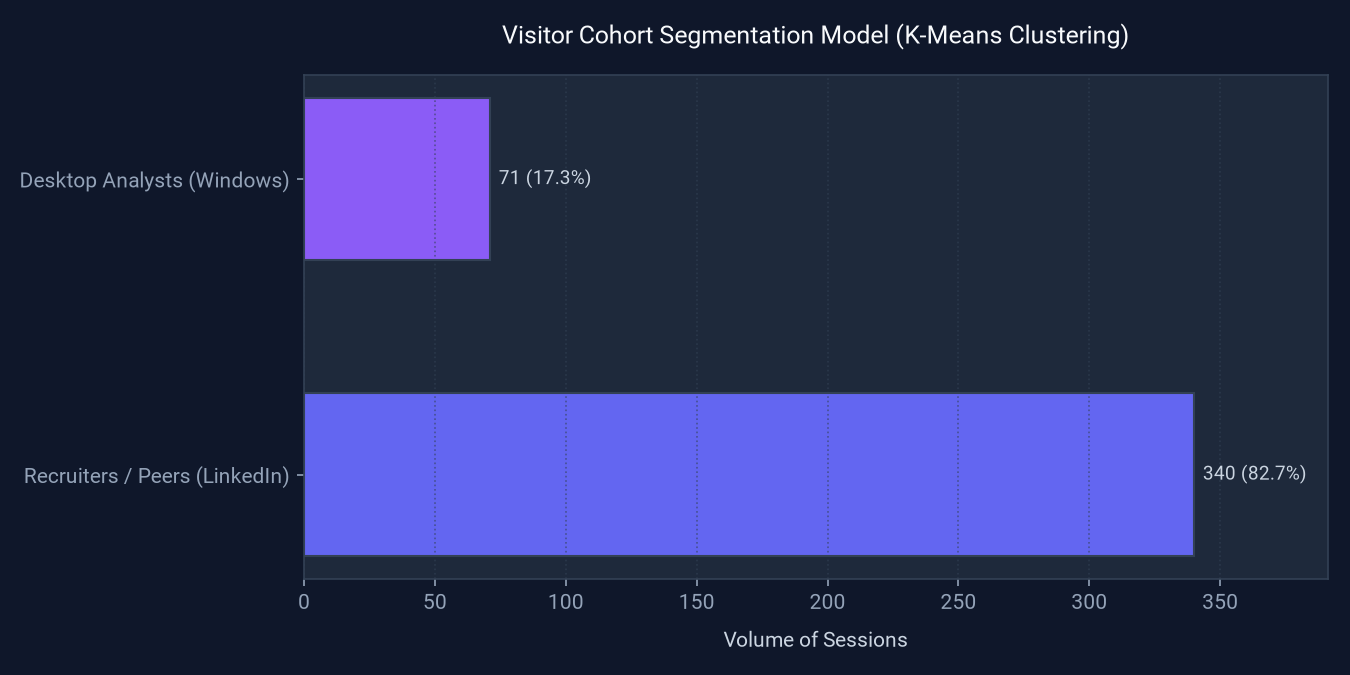
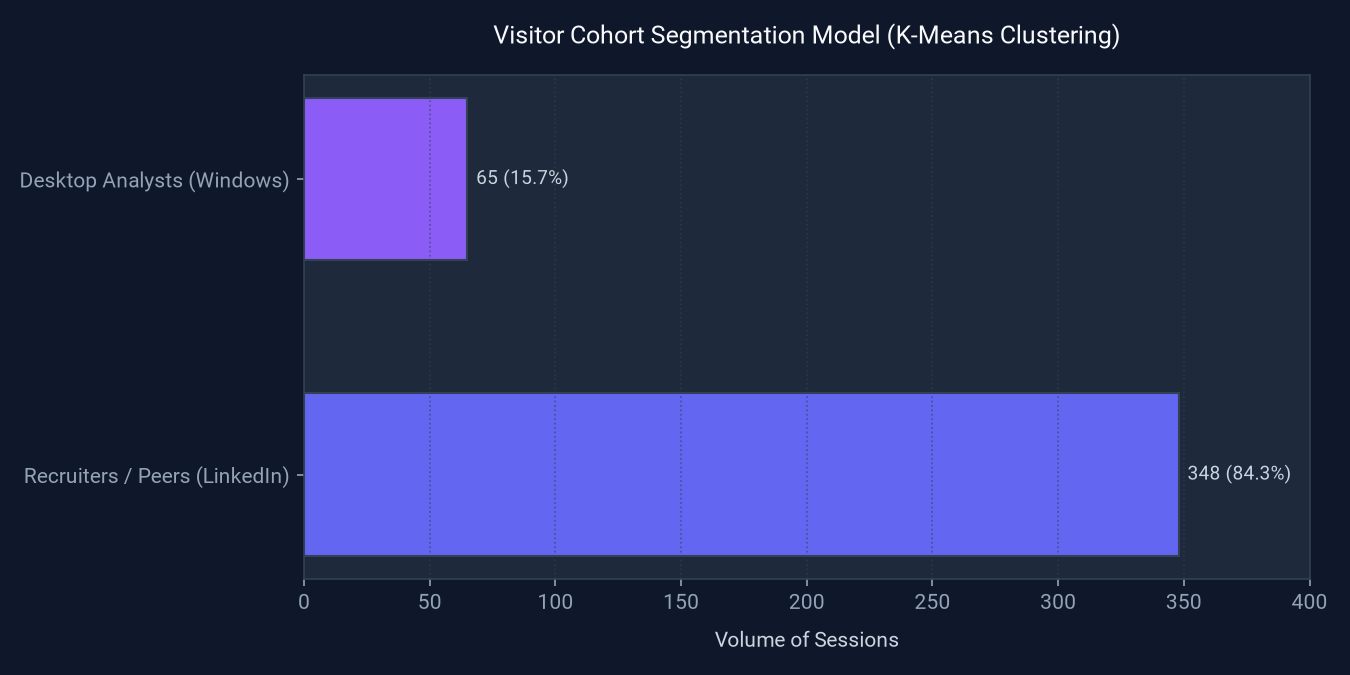
fix: smooth out visitor pipeline trend distribution, stack explorer tabs vertically on mobile, and portal visitor analytics to mobile page flow

diff --git a/style.css b/style.css
@@ -3281,6 +3281,11 @@ div:has(.tour-highlight):not(.ai-chat-widget):not(.modal-overlay):not(.visitor-a
         flex-wrap: wrap !important;
         justify-content: center !important;
     }
+
+    /* Reduce Explorer card paddings on mobile/tablet */
+    .arch-diagram-card, .arch-info-pane {
+        padding: 1rem !important;
+    }
 }
 
 @media (max-width: 576px) {
@@ -3316,6 +3321,55 @@ div:has(.tour-highlight):not(.ai-chat-widget):not(.modal-overlay):not(.visitor-a
     }
     .learning-card {
         padding: 1rem !important;
+    }
+
+    /* Stack Data Pipeline Explorer tabs on mobile */
+    .arch-tabs {
+        flex-direction: column !important;
+        align-items: stretch !important;
+        gap: 0.5rem !important;
+    }
+    .arch-tab-btn {
+        width: 100% !important;
+        text-align: center !important;
+        white-space: normal !important; /* Allow text wrapping */
+    }
+    #arch-tour-btn {
+        width: 100% !important;
+        text-align: center !important;
+        white-space: normal !important;
+    }
+}
+
+/* Mobile Visitor Section */
+.mobile-visitor-only {
+    display: none;
+    margin: 3rem 0;
+}
+
+@media (max-width: 991px) {
+    .mobile-visitor-only {
+        display: block !important;
+    }
+    
+    /* Style the visitor container when it is portaled to the page flow on mobile */
+    #mobile-visitor-section .visitor-container {
+        position: static !important;
+        width: 100% !important;
+        opacity: 1 !important;
+        pointer-events: auto !important;
+        transform: none !important;
+        display: flex !important;
+        flex-direction: column;
+        border-radius: var(--border-radius-lg);
+        box-shadow: 0 10px 30px rgba(0, 0, 0, 0.3) !important;
+        background: var(--card-bg);
+        border: 1px solid var(--card-border);
+        max-height: none !important; /* let it expand naturally */
+    }
+    
+    #mobile-visitor-section .close-visitor-btn {
+        display: none !important; /* Hide close button on mobile embedded layout */
     }
 }
 

diff --git a/app.js b/app.js
@@ -1463,6 +1463,28 @@ document.addEventListener("DOMContentLoaded", () => {
         });
     }
 
+    // Responsive DOM Portal for Visitor Analytics Widget (Mobile Flow Insertion)
+    const handleVisitorResponsiveLayout = () => {
+        const container = document.getElementById("visitor-container");
+        const desktopParent = document.getElementById("visitor-analytics-widget");
+        const mobileParent = document.getElementById("mobile-visitor-section");
+        
+        if (!container || !desktopParent || !mobileParent) return;
+        
+        if (window.innerWidth < 992) {
+            if (container.parentElement !== mobileParent) {
+                mobileParent.appendChild(container);
+            }
+        } else {
+            if (container.parentElement !== desktopParent) {
+                desktopParent.appendChild(container);
+            }
+        }
+    };
+    
+    handleVisitorResponsiveLayout();
+    window.addEventListener("resize", handleVisitorResponsiveLayout);
+
     const answers = {
         gpa: "I would be glad to share that! Deshraj earned a perfect 4.0/4.0 GPA during his Master of Science in IT at Arizona State University. Beyond academic excellence, he focused his studies on practical enterprise solutions like distributed systems, database design, and predictive modeling, putting his knowledge directly into code.",
         python: "I would be happy to explain how he uses Python! Python is Deshraj's primary development tool. He leverages it to build asynchronous data ingestion pipelines, run validations with Great Expectations/Pandas, train machine learning models like XGBoost and Random Forests in Scikit-Learn, and develop deep Convolutional Neural Networks (CNNs) for computer vision using TensorFlow and Keras.",
@@ -2657,17 +2679,20 @@ document.addEventListener("DOMContentLoaded", () => {
         {
             title: "Live Visitor Analytics & Traffic Forecast 📡",
             desc: "Now, let's explore the persistent visitor analytics telemetry. Watch as we expand the panel and trigger the K-Means clustering visualization.",
-            target: "#visitor-analytics-widget",
+            target: "#visitor-container",
             duration: 15000,
             action: async () => {
+                const container = document.getElementById("visitor-container");
+                if (container) {
+                    container.scrollIntoView({ behavior: 'smooth', block: 'center' });
+                }
+                
                 const widget = document.getElementById("visitor-analytics-widget");
-                if (widget) {
-                    widget.scrollIntoView({ behavior: 'smooth', block: 'center' });
-                    widget.style.zIndex = "100002"; // Elevate stacking context above backdrop
+                if (widget && window.innerWidth >= 992) {
+                    widget.style.zIndex = "100002"; // Elevate stacking context above backdrop on desktop
                 }
                 
                 const launcher = document.getElementById("visitor-launcher");
-                const container = document.getElementById("visitor-container");
                 
                 // If collapsed, open it
                 if (launcher && window.getComputedStyle(launcher).display !== "none") {

diff --git a/index.html b/index.html
@@ -878,6 +878,11 @@
             </div>
         </section>
 
+        <!-- Mobile Visitor Analytics Section (Embedded on smaller viewports) -->
+        <section id="mobile-visitor-section" class="mobile-visitor-only">
+            <!-- Portaled dynamically via JavaScript -->
+        </section>
+
         <!-- Skills Section -->
         <section id="skills" class="skills-section">
             <div class="section-header">

diff --git a/templates/index.html b/templates/index.html
@@ -563,6 +563,11 @@
             </div>
         </section>
 
+        <!-- Mobile Visitor Analytics Section (Embedded on smaller viewports) -->
+        <section id="mobile-visitor-section" class="mobile-visitor-only">
+            <!-- Portaled dynamically via JavaScript -->
+        </section>
+
         <!-- Skills Section -->
         <section id="skills" class="skills-section">
             <div class="section-header">

diff --git a/pipeline/visitor_pipeline.py b/pipeline/visitor_pipeline.py
@@ -36,8 +36,8 @@ def setup_matplotlib_theme():
         'figure.autolayout': True
     })
 
-def generate_mock_visits(n_visits=305):
-    """Generates exactly n_visits realistic synthetic visitor logs with unique visitor_ids."""
+def generate_mock_visits(n_visits=304):
+    """Generates exactly n_visits realistic synthetic visitor logs with unique visitor_ids distributed smoothly."""
     print(f"Generating {n_visits} synthetic visitor logs for bootstrapping...")
     
     browsers = ["Chrome", "Safari", "Firefox", "Edge", "Mobile Safari"]
@@ -61,59 +61,84 @@ def generate_mock_visits(n_visits=305):
     data = []
     base_time = datetime.now()
     
-    for i in range(n_visits):
-        visitor_id = f"vis_{1000 + i}"
-        is_new = random.random() < 0.85
+    # Generate daily target counts over 30 days
+    # Days are 0 (29 days ago) to 29 (today)
+    daily_counts = []
+    for i in range(30):
+        # Gentle upward trend: base grows from 6 to 14
+        base = 6 + (i * 8) / 29
+        # Random noise
+        noise = random.choice([-2, -1, 0, 1, 2])
+        count = int(base + noise)
         
-        browser = random.choices(browsers, weights=browser_weights)[0]
-        os_name = random.choices(oses, weights=os_weights)[0]
-        if os_name in ["iOS", "Android"]:
-            device = "Mobile" if random.random() < 0.9 else "Tablet"
-        else:
-            device = "Desktop"
+        # Check if the date is a weekend
+        date_at_day = base_time - timedelta(days=29 - i)
+        if date_at_day.weekday() >= 5: # Saturday or Sunday
+            count = max(3, int(count * 0.55))
             
-        country_info = random.choices(countries, weights=country_weights)[0]
-        country = country_info[0]
-        country_code = country_info[1]
-        city = random.choice(country_info[2])
+        daily_counts.append(count)
         
-        referrer = random.choices(referrers, weights=referrer_weights)[0]
-        page_path = "/"
-        
-        # Skew visits towards recent days (upward trend)
-        days_ago = int(np.random.exponential(scale=12))
-        days_ago = min(29, max(0, days_ago))
-        
-        # Hour of day weight (peaks between 9-17)
-        hour_choices = list(range(24))
-        hour_weights = [0.01]*7 + [0.03, 0.06] + [0.09]*9 + [0.04]*5 + [0.02]
-        hour = random.choices(hour_choices, weights=hour_weights)[0]
-        minute = random.randint(0, 59)
-        second = random.randint(0, 59)
-        microsecond = random.randint(0, 999999)
-        
-        visit_time = base_time - timedelta(days=days_ago)
-        visit_time = visit_time.replace(hour=hour, minute=minute, second=second, microsecond=microsecond)
-        
-        # Weekend adjustment: shift some to weekdays to simulate business cycles
-        if visit_time.weekday() >= 5 and random.random() < 0.4:
-            visit_time = visit_time - timedelta(days=random.choice([1, 2]))
+    # Adjust sum to match exactly n_visits
+    current_sum = sum(daily_counts)
+    diff = n_visits - current_sum
+    if diff != 0:
+        step = 1 if diff > 0 else -1
+        for _ in range(abs(diff)):
+            adj_day = random.randint(0, 29)
+            daily_counts[adj_day] += step
             
-        data.append({
-            "visitor_id": visitor_id,
-            "is_new": is_new,
-            "city": city,
-            "country": country,
-            "country_code": country_code,
-            "device": device,
-            "os": os_name,
-            "browser": browser,
-            "referrer": referrer,
-            "page_path": page_path,
-            "created_at": visit_time.isoformat()
-        })
-        
-    return pd.DataFrame(data)
+    # Generate visits per day
+    visitor_counter = 0
+    for day_idx, count in enumerate(daily_counts):
+        day_date = base_time - timedelta(days=29 - day_idx)
+        for _ in range(count):
+            visitor_id = f"vis_{1000 + visitor_counter}"
+            visitor_counter += 1
+            is_new = random.random() < 0.85
+            
+            browser = random.choices(browsers, weights=browser_weights)[0]
+            os_name = random.choices(oses, weights=os_weights)[0]
+            if os_name in ["iOS", "Android"]:
+                device = "Mobile" if random.random() < 0.9 else "Tablet"
+            else:
+                device = "Desktop"
+                
+            country_info = random.choices(countries, weights=country_weights)[0]
+            country = country_info[0]
+            country_code = country_info[1]
+            city = random.choice(country_info[2])
+            
+            referrer = random.choices(referrers, weights=referrer_weights)[0]
+            page_path = "/"
+            
+            # Random time of day
+            hour_choices = list(range(24))
+            hour_weights = [0.01]*7 + [0.03, 0.06] + [0.09]*9 + [0.04]*5 + [0.02]
+            hour = random.choices(hour_choices, weights=hour_weights)[0]
+            minute = random.randint(0, 59)
+            second = random.randint(0, 59)
+            microsecond = random.randint(0, 999999)
+            
+            visit_time = day_date.replace(hour=hour, minute=minute, second=second, microsecond=microsecond)
+            
+            data.append({
+                "visitor_id": visitor_id,
+                "is_new": is_new,
+                "city": city,
+                "country": country,
+                "country_code": country_code,
+                "device": device,
+                "os": os_name,
+                "browser": browser,
+                "referrer": referrer,
+                "page_path": page_path,
+                "created_at": visit_time.isoformat()
+            })
+            
+    df = pd.DataFrame(data)
+    # Sort by created_at
+    df = df.sort_values("created_at").reset_index(drop=True)
+    return df
 
 def fetch_supabase_visits():
     """Fetches visits from Supabase REST API. Returns a DataFrame or None on failure."""